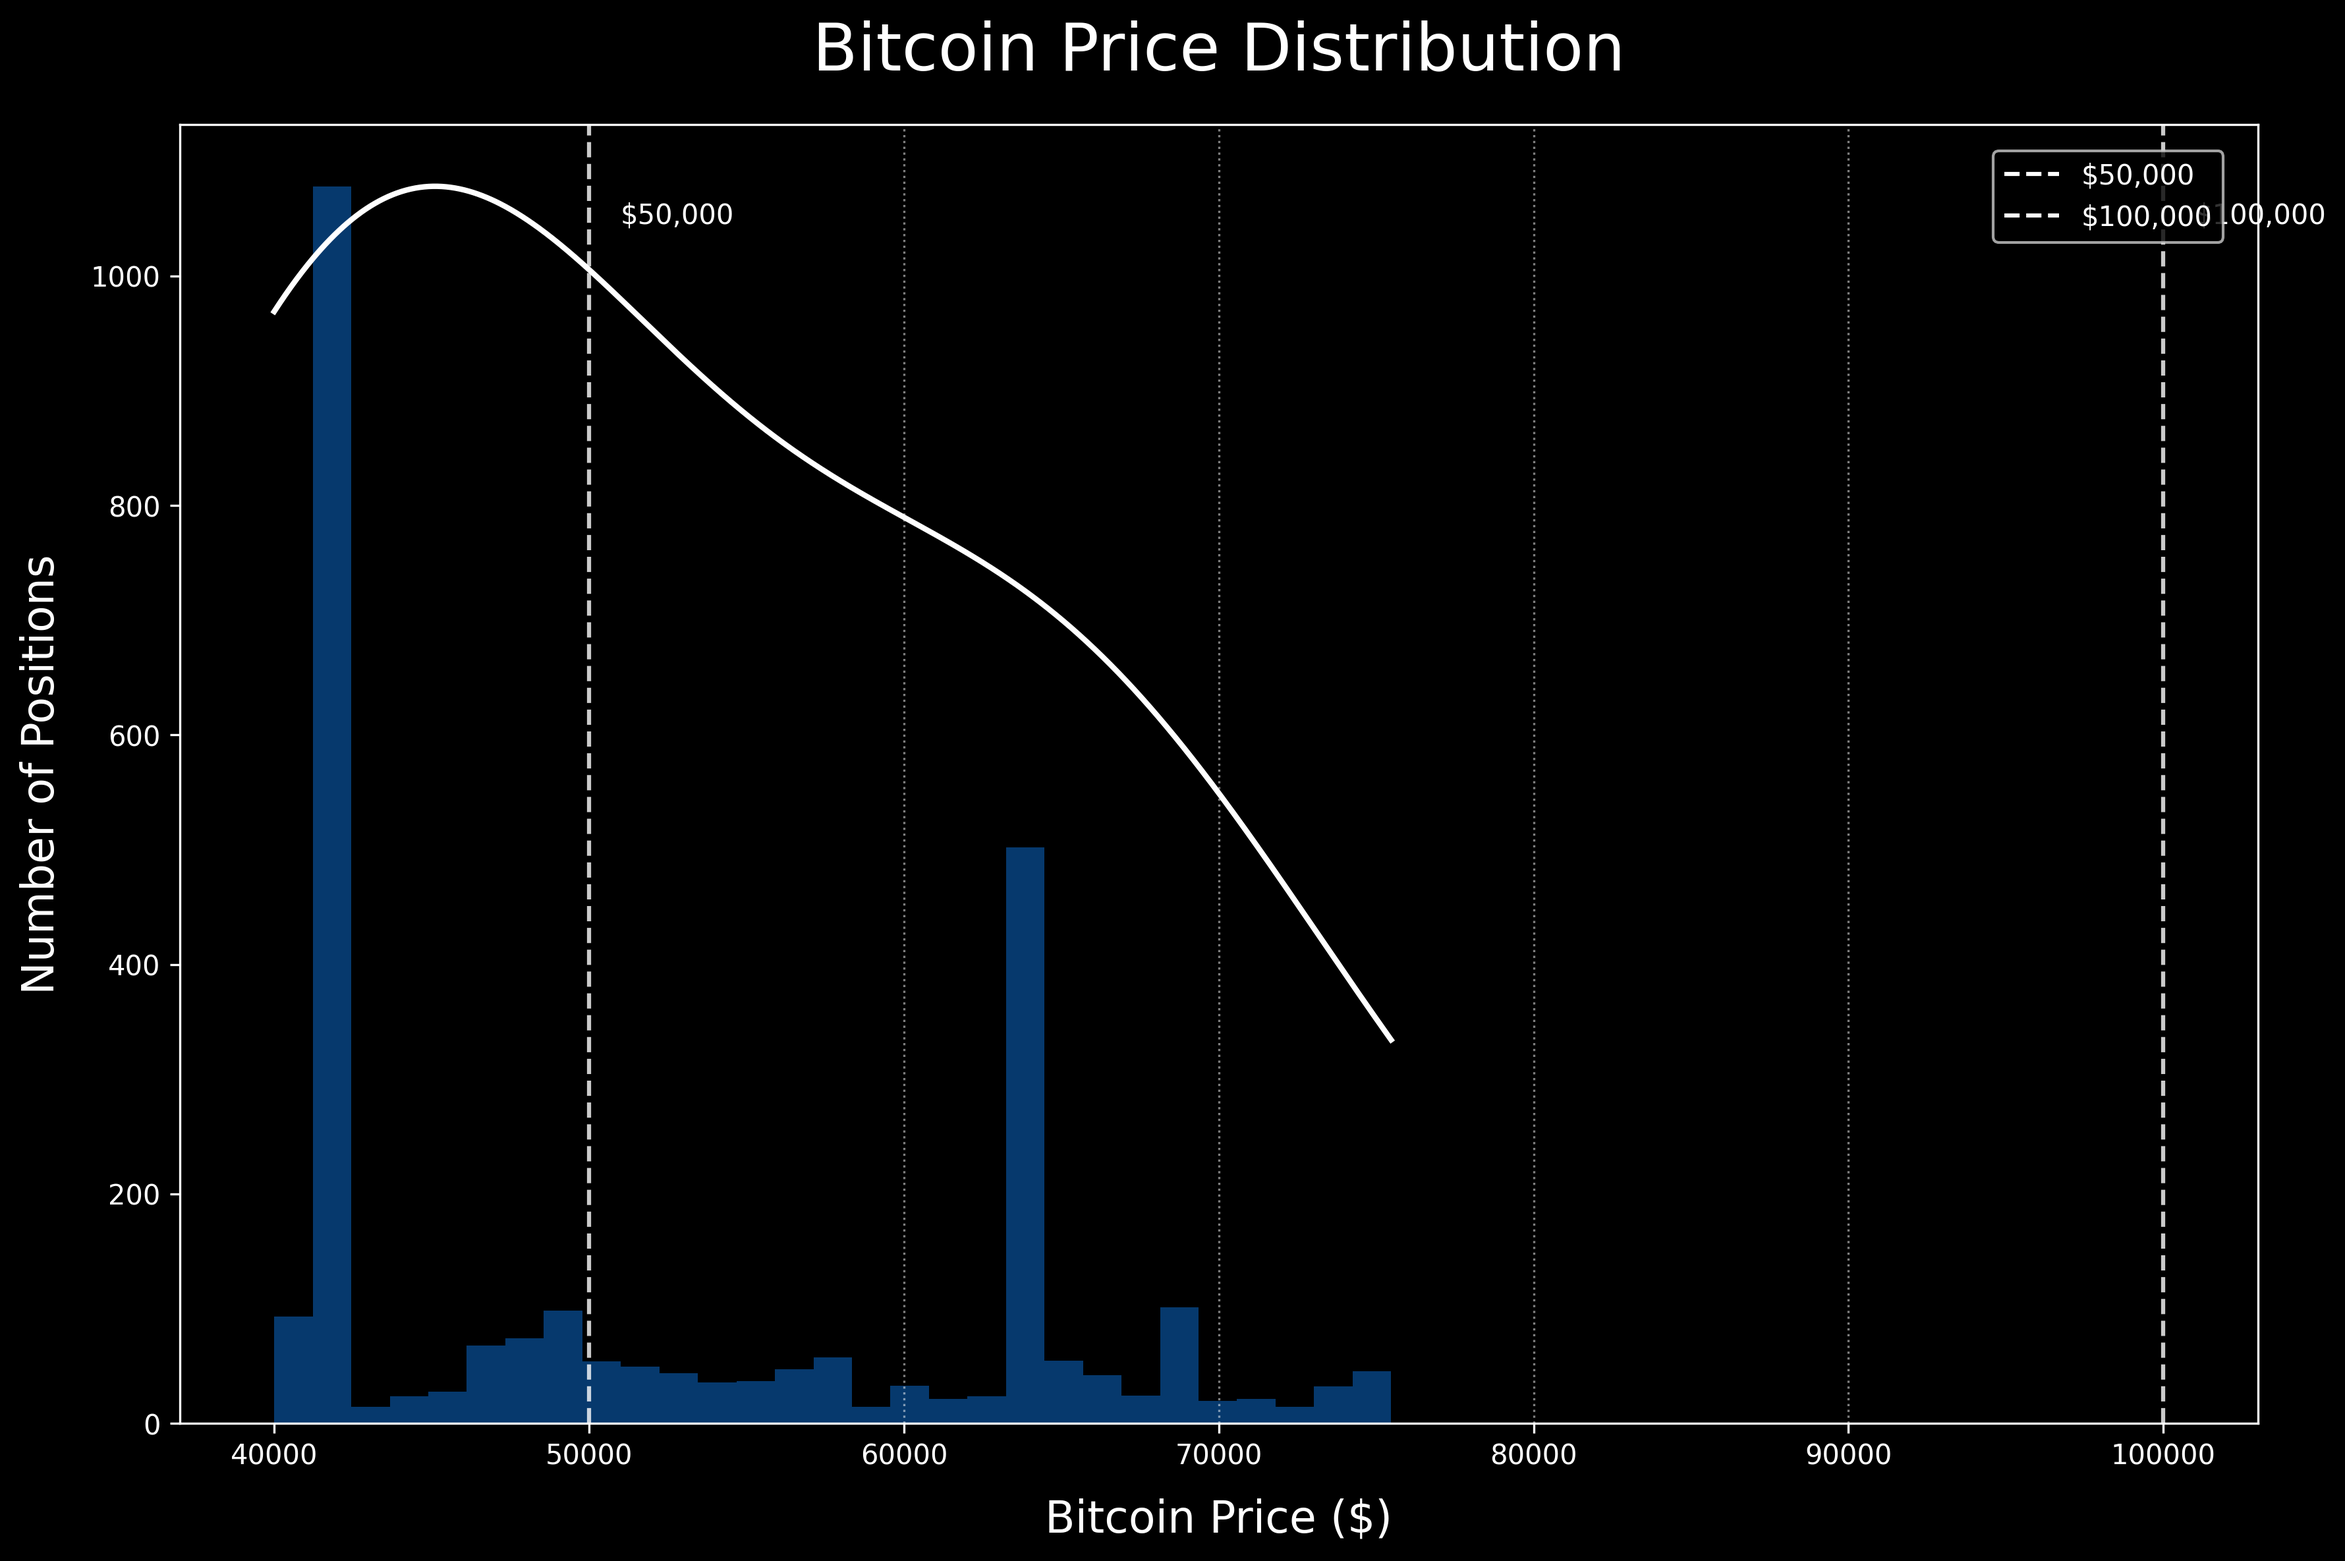
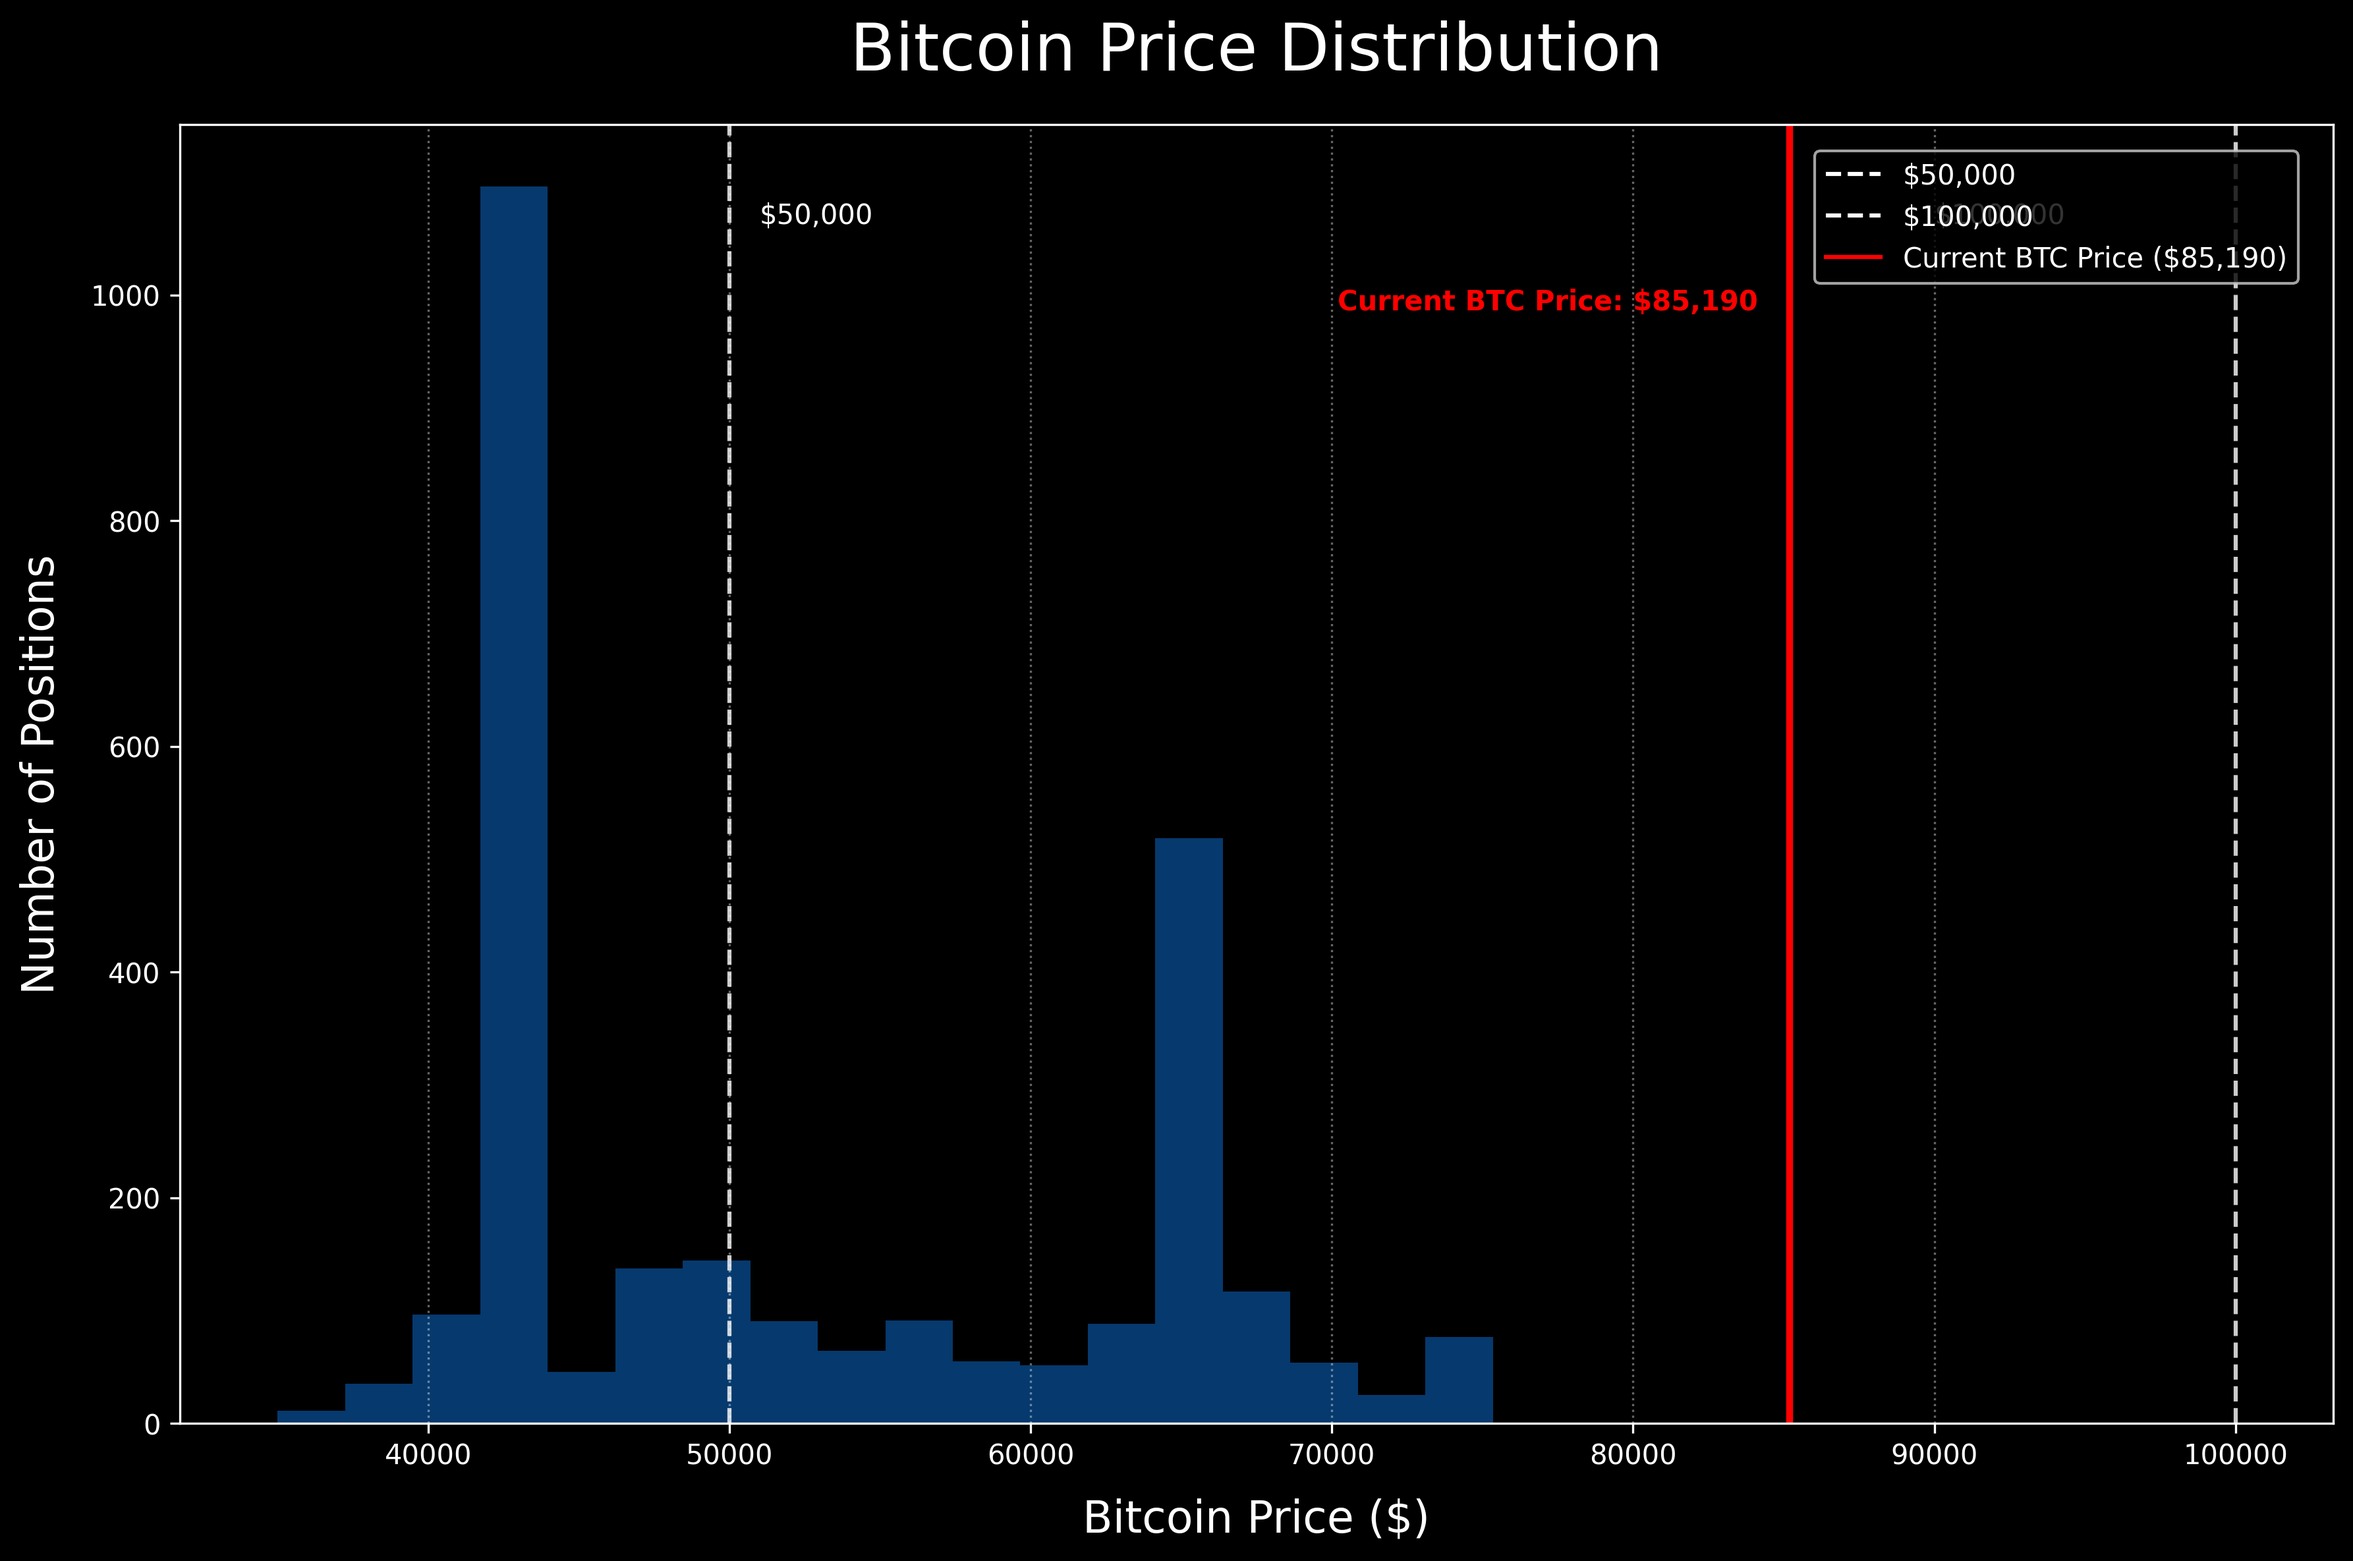
Rough implementation of heatmap done

diff --git a/queries/btc_liquidation_heatmap.py b/queries/btc_liquidation_heatmap.py
@@ -3,13 +3,9 @@ import json
 import numpy as np
 import pandas as pd
 import matplotlib.pyplot as plt
-import seaborn as sns
 from matplotlib.colors import LinearSegmentedColormap
 import os
-from scipy.stats import gaussian_kde
-
-# Constants
-LLTV_DECIMAL = 0.86  # Based on the 86% LLTV found in the provided output
+import subprocess
 
 def load_position_data(file_path):
     """Load position data from the JSON file"""
@@ -21,34 +17,60 @@ def load_position_data(file_path):
         print(f"Error loading data: {e}")
         return None
 
-def calculate_liquidation_price(collateral, borrowed, lltv_decimal=LLTV_DECIMAL):
-    """
-    Calculate the liquidation price using the formula:
-    Liquidation price = borrowed_assets / (collateral_units * lltv_decimal)
-    """
-    if collateral == 0:
+def get_current_btc_price():
+    """Get current BTC price by calling btcPrice.js"""
+    try:
+        # Get the directory of the current script
+        script_dir = os.path.dirname(os.path.abspath(__file__))
+        
+        # Run btcPrice.js and capture output
+        result = subprocess.run(
+            ['node', os.path.join(script_dir, 'btcPrice.js')], 
+            capture_output=True, 
+            text=True,
+            check=True
+        )
+        
+        # Parse the output to extract the price
+        output_lines = result.stdout.strip().split('\n')
+        for line in output_lines:
+            if 'BTC/USD Price:' in line:
+                # Extract the price value (remove $ and commas)
+                price_str = line.split('$')[1].strip().replace(',', '')
+                return float(price_str)
+        
+        # If price not found in the output
+        print("Warning: Could not extract BTC price from btcPrice.js output")
+        print("Output was:", result.stdout)
         return None
-    return borrowed / (collateral * lltv_decimal)
+    
+    except subprocess.CalledProcessError as e:
+        print(f"Error running btcPrice.js: {e}")
+        print(f"Error output: {e.stderr}")
+        return None
+    except Exception as e:
+        print(f"Error getting BTC price: {e}")
+        return None
 
 def create_liquidation_price_dataframe(data):
-    """Create a DataFrame with position data and calculated liquidation prices"""
+    """Create a DataFrame with position data"""
     positions = []
     
     for pos in data['positions']:
         try:
+            # The liquidation price is now included in the JSON data
             collateral_btc = pos['collateral']['cbBTC']
             borrowed_usd = pos['borrowed']['USD']
+            liquidation_price = pos.get('liquidationPrice', None)
             
-            if collateral_btc > 0:
-                liq_price = calculate_liquidation_price(collateral_btc, borrowed_usd)
-                
+            if collateral_btc > 0 and liquidation_price is not None:
                 positions.append({
                     'position_id': pos['position'],
                     'user_address': pos['userAddress'],
                     'collateral_btc': collateral_btc,
                     'collateral_usd': pos['collateral']['USD'],
                     'borrowed_usd': borrowed_usd,
-                    'liquidation_price': liq_price,
+                    'liquidation_price': liquidation_price,
                     'current_ltv': (borrowed_usd / pos['collateral']['USD']) * 100 if pos['collateral']['USD'] > 0 else 0
                 })
         except Exception as e:
@@ -62,8 +84,8 @@ def filter_outliers(df, column, lower_quantile=0.01, upper_quantile=0.99):
     upper_bound = df[column].quantile(upper_quantile)
     return df[(df[column] >= lower_bound) & (df[column] <= upper_bound)]
 
-def create_btc_liquidation_heatmap(df):
-    """Create a weighted heatmap of BTC liquidation prices"""
+def create_btc_liquidation_heatmap(df, current_btc_price=None):
+    """Create a histogram of BTC liquidation prices"""
     # Filter outliers
     df_filtered = filter_outliers(df, 'liquidation_price')
     
@@ -80,9 +102,9 @@ def create_btc_liquidation_heatmap(df):
     prices = df_filtered['liquidation_price'].values
     weights = df_filtered['collateral_btc'].values
     
-    # Define price range for histogram
-    min_price = max(df_filtered['liquidation_price'].min(), 40000)
-    max_price = min(df_filtered['liquidation_price'].max(), 110000)
+    # Define price range for histogram (extend to 100k to show current BTC price)
+    min_price = max(df_filtered['liquidation_price'].min(), 35000)
+    max_price = 100000  # Extended to 100k to show current BTC price
     
     # Create histogram bins
     bins = np.linspace(min_price, max_price, 30)
@@ -93,14 +115,6 @@ def create_btc_liquidation_heatmap(df):
     # Calculate bin centers for plotting
     bin_centers = (bin_edges[:-1] + bin_edges[1:]) / 2
     
-    # Calculate KDE for smooth curve
-    kde_weights = gaussian_kde(prices, weights=weights)
-    x_range = np.linspace(min_price, max_price, 1000)
-    kde_values = kde_weights(x_range)
-    
-    # Scale KDE to match histogram height
-    kde_values = kde_values * (hist.max() / kde_values.max())
-    
     # Create custom colormap (similar to image)
     colors = plt.cm.Blues(np.linspace(0.4, 1, 256))
     cmap = LinearSegmentedColormap.from_list('blue_gradient', colors)
@@ -108,20 +122,28 @@ def create_btc_liquidation_heatmap(df):
     # Plot histogram
     plt.bar(bin_centers, hist, width=(bins[1]-bins[0]), alpha=0.7, color=colors[200])
     
-    # Plot KDE curve
-    plt.plot(x_range, kde_values, color='white', linewidth=2)
-    
-    # Add vertical lines at key price points (from the attached image)
+    # Add vertical lines at key price points
     plt.axvline(x=50000, color='white', linestyle='--', alpha=0.8, linewidth=1.5)
     plt.axvline(x=100000, color='white', linestyle='--', alpha=0.8, linewidth=1.5)
     
     # Add some dotted vertical lines at intermediate points
-    for price in np.linspace(60000, 90000, 4):
-        plt.axvline(x=price, color='white', linestyle=':', alpha=0.5, linewidth=0.8)
+    for price in np.linspace(40000, 90000, 6):
+        plt.axvline(x=price, color='white', linestyle=':', alpha=0.4, linewidth=0.8)
+    
+    # Add current BTC price line if available
+    if current_btc_price is not None:
+        plt.axvline(x=current_btc_price, color='red', linestyle='-', alpha=1.0, linewidth=2.5)
+        # Position the text based on where the price is
+        if current_btc_price < max_price - 15000:
+            plt.text(current_btc_price + 1000, hist.max() * 0.9, f"Current BTC Price: ${current_btc_price:,.0f}", 
+                    color='red', fontsize=10, fontweight='bold')
+        else:
+            plt.text(current_btc_price - 15000, hist.max() * 0.9, f"Current BTC Price: ${current_btc_price:,.0f}", 
+                    color='red', fontsize=10, fontweight='bold')
     
     # Add legend for vertical lines
     plt.text(51000, hist.max() * 0.97, "$50,000", color='white', fontsize=10)
-    plt.text(101000, hist.max() * 0.97, "$100,000", color='white', fontsize=10)
+    plt.text(90000, hist.max() * 0.97, "$100,000", color='white', fontsize=10)
     
     # Title and labels
     plt.title("Bitcoin Price Distribution", fontsize=24, pad=20)
@@ -135,11 +157,17 @@ def create_btc_liquidation_heatmap(df):
     print(f"Total positions analyzed: {len(df_filtered)}")
     print(f"Most concentrated liquidation price range: ${bin_centers[np.argmax(hist)]:,.0f}")
     
-    # Add legend on the right side
+    # Add legend for lines
     legend_elements = [
         plt.Line2D([0], [0], color='white', linestyle='--', label='$50,000'),
-        plt.Line2D([0], [0], color='white', linestyle='--', label='$100,000')
+        plt.Line2D([0], [0], color='white', linestyle='--', label='$100,000'),
     ]
+    
+    if current_btc_price is not None:
+        legend_elements.append(
+            plt.Line2D([0], [0], color='red', linestyle='-', label=f'Current BTC Price (${current_btc_price:,.0f})')
+        )
+    
     plt.legend(handles=legend_elements, loc='upper right', bbox_to_anchor=(0.99, 0.99), frameon=True)
     
     # Tight layout and save
@@ -169,8 +197,10 @@ def additional_analysis(df):
     print(f"Standard deviation: ${df['liquidation_price'].std():,.2f}")
     
     # Calculate concentration by price range
-    price_ranges = [(40000, 50000), (50000, 60000), (60000, 70000), 
-                    (70000, 80000), (80000, 90000), (90000, 100000)]
+    price_ranges = [(35000, 40000), (40000, 45000), (45000, 50000), 
+                    (50000, 55000), (55000, 60000), (60000, 65000),
+                    (65000, 70000), (70000, 75000), (75000, 85000),
+                    (85000, 100000)]
     
     print("\nPositions by Liquidation Price Range:")
     for lower, upper in price_ranges:
@@ -188,6 +218,11 @@ def main():
     if not data:
         return
     
+    # Get current BTC price
+    current_btc_price = get_current_btc_price()
+    if current_btc_price:
+        print(f"Current BTC Price: ${current_btc_price:,.2f}")
+    
     # Process data
     df = create_liquidation_price_dataframe(data)
     
@@ -196,7 +231,7 @@ def main():
     print(f"Positions with valid liquidation prices: {df['liquidation_price'].notna().sum()}")
     
     # Create heatmap
-    create_btc_liquidation_heatmap(df)
+    create_btc_liquidation_heatmap(df, current_btc_price)
     
     # Perform additional analysis
     additional_analysis(df)
